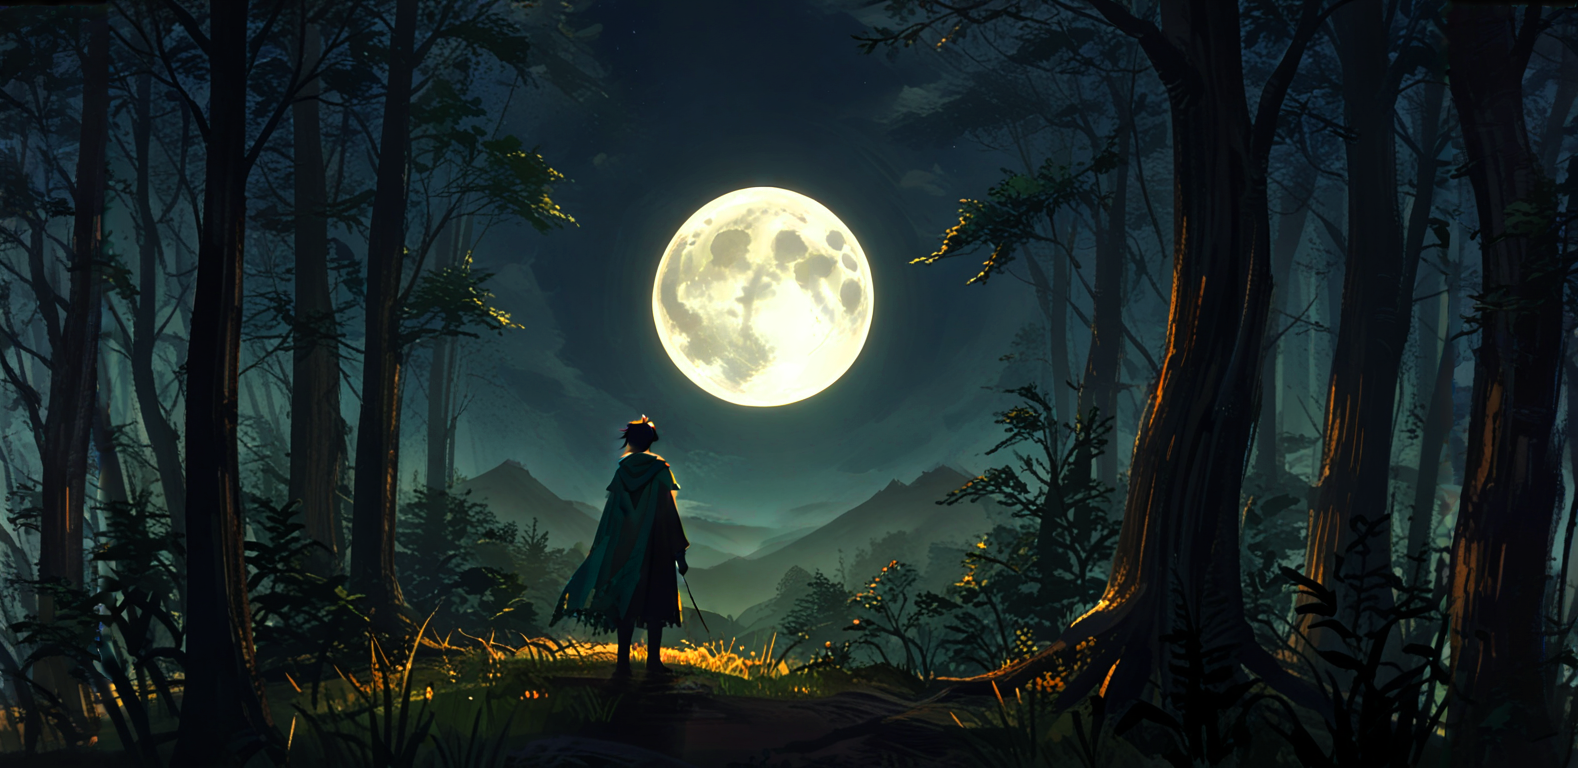
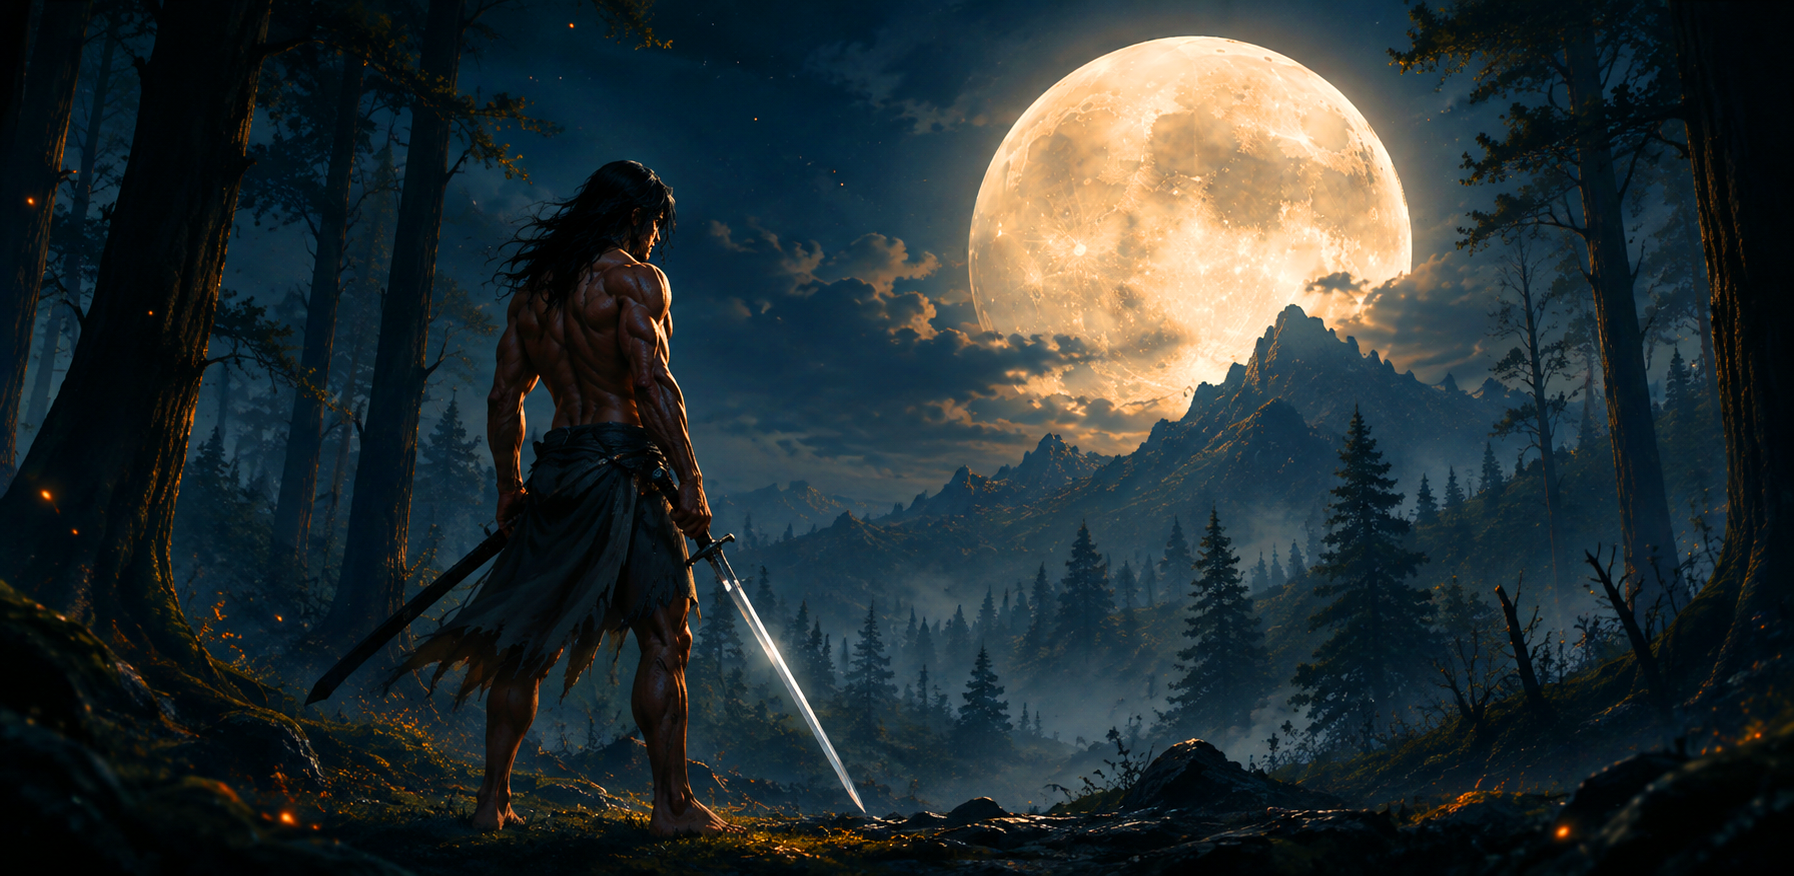
update for don't run

diff --git a/index.html b/index.html
@@ -147,8 +147,8 @@
 			background-position: center;
 		}
 
-		.tile--semideus {
-			background-image: url("https://i.imgur.com/PAL77GU.png");
+		.tile--dont_run {
+			background-image: url("public/img/dont_run_splash.png");
 		}
 
 		.tile--king {
@@ -521,11 +521,11 @@
 						</div>
 
 						<div class="jet-smart-tiles">
-							<div class="jet-smart-tiles__box tile tile--semideus">
-								<a href="https://play.google.com/store/apps/details?id=com.davik.semideus"
+							<div class="jet-smart-tiles__box tile tile--dont_run">
+								<a href="https://play.google.com/store/apps/details?id=com.davik.dontrun"
 									class="jet-smart-tiles__terms-link jet-smart-tiles__terms-link--21">Playstore</a>
 								<div class="jet-smart-tiles__box-content">
-									<div class="jet-smart-tiles__box-title tile__title">Semideus</div>
+									<div class="jet-smart-tiles__box-title tile__title">Don't run</div>
 								</div>
 							</div>
 						</div>

diff --git a/task_log.md b/task_log.md
@@ -1,4 +1,10 @@
 # Task Log
 
+## [2026-08-11] Updated Semideus tile to Don't run with local splash image and playstore link
+- Replaced `.tile--semideus` with `.tile--dont_run` in `index.html`.
+- Updated tile background image to `public/img/dont_run_splash.png`.
+- Updated Playstore link to `https://play.google.com/store/apps/details?id=com.davik.dontrun`.
+- Updated game title to "Don't run".
+
 ## [2026-08-01] Added Privacy Policy Route for Don't Run
 - Added route link to `dont-run-privacy-policy.html` ("Don't Run") inside `index.html` navigation menu alongside existing Privacy Policy links (Dark Recall, Semideus, Murder King).
